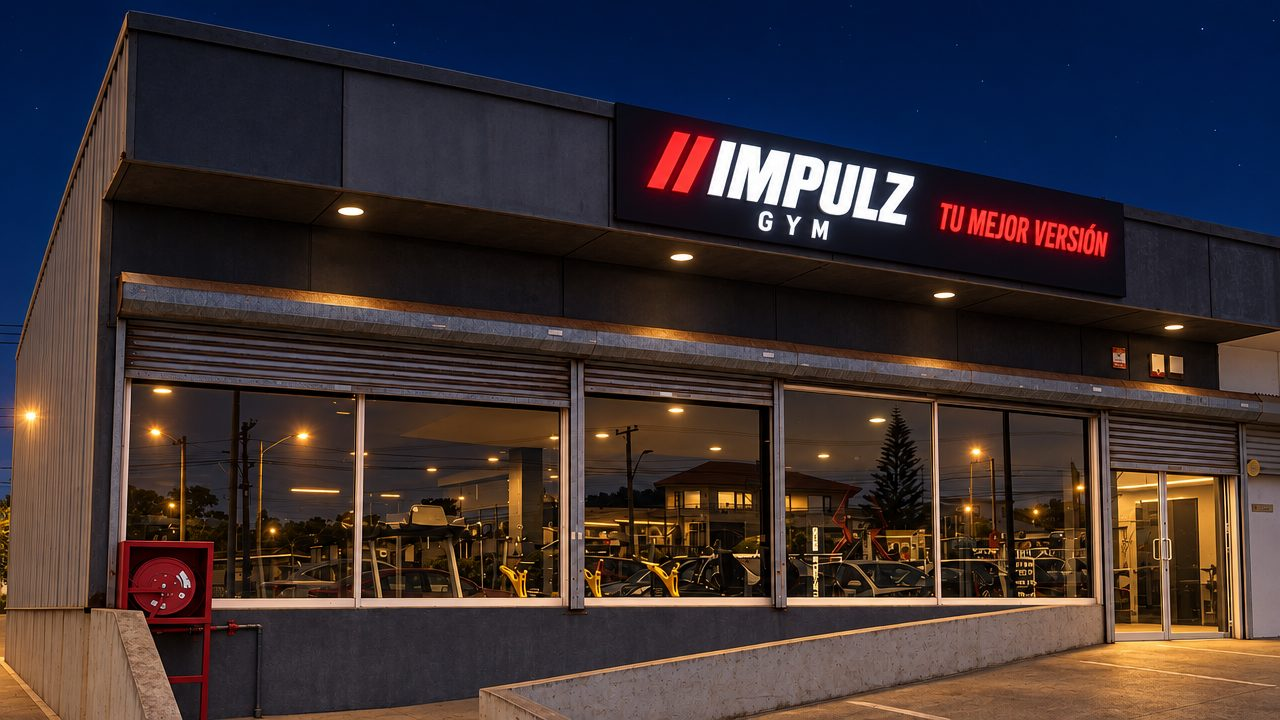
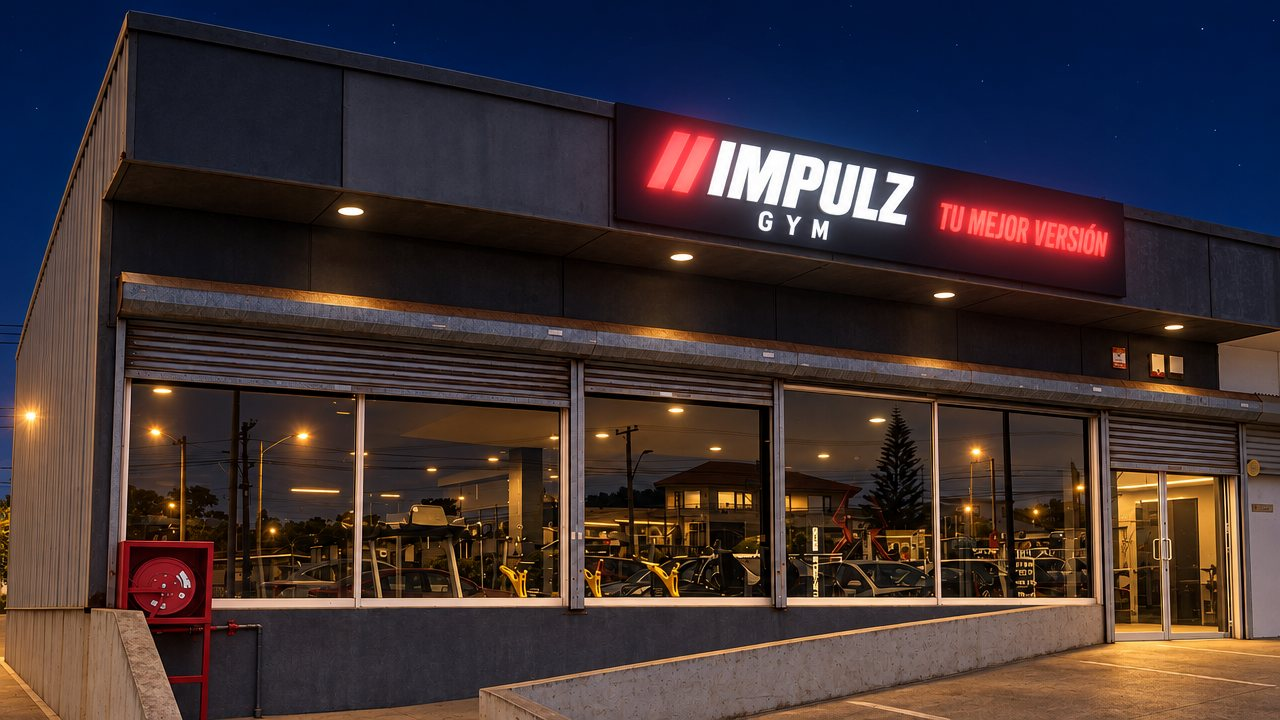
Impulz: portada viva con el letrero, costados llenos y ubicación destacada
- Portada (celular y computador): letrero de frente con cielo de día, atardecer
  o noche (encendido, con brillo de neón); estado y reloj en el cielo; mensaje
  según el momento del día; acentos de toda la web según la hora.
- Contenido más ancho, cinta en movimiento, galería en mosaico de borde a borde,
  horarios sobre foto y "IMPULZ" en contorno detrás de algunos títulos.
- Ubicación: mapa a todo el ancho con Cómo llegar y Waze; dirección en la barra
  superior.

Claude-Session: https://claude.ai/code/session_01GMYAFuU4PmfgPxmJQtduFC

Changed region(s): [[0.4688, 0.1222, 0.9062, 0.3972]]

diff --git a/impulz-gym/app/public/sitio.html b/impulz-gym/app/public/sitio.html
@@ -40,7 +40,7 @@
 html{scroll-behavior:smooth;-webkit-text-size-adjust:100%;scroll-padding-top:76px}
 @media (prefers-reduced-motion:reduce){html{scroll-behavior:auto}}
 body{margin:0;background:var(--bg);color:var(--ink);font:17px/1.6 var(--body)}
-.wrap{max-width:1120px;margin:0 auto;padding-left:max(20px,env(safe-area-inset-left,0px));padding-right:max(20px,env(safe-area-inset-right,0px))}
+.wrap{max-width:1240px;margin:0 auto;padding-left:max(20px,env(safe-area-inset-left,0px));padding-right:max(20px,env(safe-area-inset-right,0px))}
 a{color:var(--red-hi)}
 :focus-visible{outline:2px solid var(--red-hi);outline-offset:3px}
 [hidden]{display:none!important}
@@ -72,14 +72,65 @@ nav.links a:hover{color:var(--red-hi)}
 .hero{position:relative;overflow:hidden;border-bottom:1px solid var(--line);background:var(--bg)}
 /* Cielo de la portada: la foto de la fachada cambia según la luz real de El Quisco (día, atardecer, noche). */
 .cielo{position:absolute;inset:0;z-index:0}
-.cielo i{position:absolute;inset:0;background:right top/cover no-repeat;opacity:0;transition:opacity 2.5s ease}
+.cielo i{position:absolute;inset:0;background:82% top/cover no-repeat;opacity:0;transition:opacity 2.5s ease}
 .cielo .c-dia{background-image:url(/fotos/ia-fachada.jpg);opacity:1}
 .hero[data-cielo=tarde] .c-tarde,.hero[data-cielo=noche] .c-noche{opacity:1}
 .hero[data-cielo=tarde] .c-dia,.hero[data-cielo=noche] .c-dia{opacity:0}
-.cielo::after{content:"";position:absolute;inset:0;background:linear-gradient(90deg,rgba(11,9,9,.97) 0%,rgba(11,9,9,.92) 46%,rgba(11,9,9,.4) 72%,rgba(11,9,9,.2) 100%)}
-@media(prefers-reduced-motion:reduce){.cielo i{transition:none}}
-.hero::before{content:"";position:absolute;inset:0;z-index:1;background:repeating-linear-gradient(115deg,transparent 0 46px,rgba(227,23,30,.07) 46px 50px),radial-gradient(70% 90% at 88% 0%,rgba(227,23,30,.38),transparent 60%);pointer-events:none}
-.heroin{position:relative;z-index:2;display:grid;gap:26px;padding-block:56px 64px}
+.cielo::after{content:"";position:absolute;inset:0;background:linear-gradient(90deg,rgba(11,9,9,.9) 0%,rgba(11,9,9,.72) 55%,rgba(11,9,9,.45) 100%),linear-gradient(0deg,var(--bg) 0%,transparent 30%)}
+/* Computador: mismo concepto que el celular. El letrero de frente, centrado y en grande con el cielo de fondo;
+   el estado y el reloj en el cielo; el texto y los botones centrados debajo. */
+@media(min-width:900px){
+  .hero{display:flex;flex-direction:column}
+  section.hero::before{display:none}
+  .cielo{position:relative;inset:auto;height:clamp(480px,min(44vw,calc(100vh - 200px)),820px);flex:none}
+  .cielo i{background-position:50% 74%}
+  .cielo .c-dia{background-image:url(/fotos/ia-letrero-ancho.jpg)}
+  .cielo::after{background:linear-gradient(0deg,var(--bg) 0%,transparent 16%)}
+  .hero .heroin{position:static;min-height:0;margin-top:-2vw;padding-block:0 60px;gap:22px;justify-items:center;text-align:center}
+  .hero .vivo{position:absolute;left:0;right:0;justify-self:stretch;width:auto;top:clamp(48px,5vw,110px);z-index:3;display:flex;flex-direction:column;align-items:center;gap:12px}
+  .hero .reloj{flex-direction:column;align-items:center;gap:8px;background:none;border:0;padding:0;backdrop-filter:none}
+  .hero .reloj b{font-size:clamp(72px,7.6vw,132px);text-shadow:0 3px 26px rgba(0,0,0,.45)}
+  .hero .reloj span{font-size:13px;color:#fff;text-shadow:0 1px 8px rgba(0,0,0,.6)}
+  .hero .state{order:-1;font-size:15px;background:rgba(11,9,9,.72);border-color:rgba(255,255,255,.18);backdrop-filter:blur(6px)}
+  .hero .momento{justify-self:center}
+  .hero .lead{margin-inline:auto}
+  .hero .cta,.hero .trust{justify-content:center}
+  .hero .stats{justify-self:stretch;text-align:left}
+  .hero h1{position:absolute;width:1px;height:1px;overflow:hidden;clip:rect(0 0 0 0);white-space:nowrap}
+}
+/* Celular: el letrero en grande y centrado con el cielo de fondo; el estado y la hora van en el cielo, dentro de la imagen */
+@media(max-width:899px){
+  .hero{display:flex;flex-direction:column}
+  .hero::before{display:none}
+  .cielo{position:relative;inset:auto;height:clamp(440px,125vw,760px);flex:none}
+  .cielo i{background-position:50% 50%}
+  .cielo .c-dia{background-image:url(/fotos/ia-letrero.jpg)}
+  .cielo::after{background:linear-gradient(0deg,var(--bg) 0%,transparent 10%)}
+  .hero .heroin{position:static;min-height:0;margin-top:-14vw;padding-block:0 40px;gap:20px}
+  .hero .vivo{position:absolute;left:0;right:0;justify-self:stretch;width:auto;top:clamp(56px,15vw,120px);z-index:3;display:flex;flex-direction:column;align-items:center;gap:8px}
+  .hero .reloj{flex-direction:column;align-items:center;gap:6px;background:none;border:0;padding:0;backdrop-filter:none}
+  .hero .reloj b{font-size:clamp(50px,15vw,84px);text-shadow:0 2px 20px rgba(0,0,0,.45)}
+  .hero .reloj span{color:#fff;text-shadow:0 1px 8px rgba(0,0,0,.6)}
+  .hero .state{order:-1;background:rgba(11,9,9,.72);border-color:rgba(255,255,255,.18);backdrop-filter:blur(6px)}
+  .hero .momento{justify-self:center}
+  .hero h1{position:absolute;width:1px;height:1px;overflow:hidden;clip:rect(0 0 0 0);white-space:nowrap}
+}
+/* De noche el letrero "respira" como un neón encendido */
+@keyframes neon{0%,100%{filter:brightness(1) saturate(1)}50%{filter:brightness(1.1) saturate(1.15)}}
+.hero[data-cielo=noche] .c-noche{animation:neon 4.5s ease-in-out infinite}
+@media(prefers-reduced-motion:reduce){.cielo i{transition:none;animation:none!important}}
+/* Acentos de toda la web según la hora: cálidos al atardecer, con brillo de neón de noche */
+.eyebrow,.btn,.plan.top,.cinta,section.blk{transition:color .8s,box-shadow .8s,text-shadow .8s,background-color .8s}
+html[data-momento=tarde] .eyebrow{color:#ff7a45}
+html[data-momento=tarde] .cinta{background:linear-gradient(90deg,#e3171e,#f0602d)}
+html[data-momento=tarde] section.blk:not(#horarios){background-image:linear-gradient(180deg,rgba(255,122,48,.05),transparent 45%)}
+html[data-momento=noche] .eyebrow{text-shadow:0 0 14px rgba(255,74,80,.6)}
+html[data-momento=noche] .btn:not(.ghost):not(.wa):not(.waze){box-shadow:0 0 0 1px rgba(255,74,80,.45),0 0 26px rgba(227,23,30,.5)}
+html[data-momento=noche] .plan.top{box-shadow:0 0 44px rgba(227,23,30,.28)}
+html[data-momento=noche] section.blk.marca::before{-webkit-text-stroke-color:rgba(255,74,80,.12)}
+html[data-momento=noche] .cinta{box-shadow:0 0 30px rgba(227,23,30,.5)}
+.hero::before{content:"";position:absolute;inset:0;z-index:1;background:repeating-linear-gradient(115deg,transparent 0 46px,rgba(227,23,30,.05) 46px 50px);-webkit-mask-image:linear-gradient(90deg,#000 0%,#000 30%,transparent 55%);mask-image:linear-gradient(90deg,#000 0%,#000 30%,transparent 55%);pointer-events:none}
+.heroin{position:relative;z-index:2;display:grid;gap:24px;align-content:center;min-height:clamp(600px,84vh,860px);padding-block:48px 56px}
 .state{display:inline-flex;align-items:center;gap:10px;justify-self:start;border:1px solid var(--line);background:var(--panel);border-radius:999px;padding:8px 14px;font:700 14px/1 var(--display);letter-spacing:.1em;text-transform:uppercase}
 .state i{width:10px;height:10px;border-radius:50%;background:var(--muted)}
 .state.on i{background:var(--ok);box-shadow:0 0 0 4px rgba(111,220,151,.2)}
@@ -90,6 +141,8 @@ nav.links a:hover{color:var(--red-hi)}
 .reloj b{font:800 italic 21px/1 var(--display);font-variant-numeric:tabular-nums;letter-spacing:.03em}
 .reloj span{font:700 11px/1 var(--display);letter-spacing:.14em;text-transform:uppercase;color:var(--muted)}
 .hero h1{font-size:clamp(60px,13vw,150px);max-width:9ch}
+.momento{justify-self:start;display:flex;gap:10px;align-items:center;font:700 16px/1.3 var(--display);letter-spacing:.06em;text-transform:uppercase;color:var(--ink);background:rgba(227,23,30,.14);border:1px solid rgba(227,23,30,.45);border-radius:10px;padding:10px 14px;max-width:52ch}
+.momento::before{content:"";flex:none;width:8px;height:8px;border-radius:50%;background:var(--red-hi)}
 .hero .lead{font-size:clamp(19px,2.4vw,23px);max-width:46ch;color:var(--soft)}
 .cta{display:flex;gap:12px;flex-wrap:wrap}
 .trust{display:flex;flex-wrap:wrap;gap:6px 18px;font:700 14px/1.2 var(--display);letter-spacing:.12em;text-transform:uppercase;color:var(--soft)}
@@ -100,7 +153,22 @@ nav.links a:hover{color:var(--red-hi)}
 .stat b{font:italic 900 36px/1 var(--display)}
 .stat span{font-size:14px;color:var(--muted)}
 
-section.blk{padding-block:76px;border-bottom:1px solid var(--line)}
+section.blk{padding-block:76px;border-bottom:1px solid var(--line);position:relative}
+section.blk>.wrap{position:relative;z-index:1}
+/* "IMPULZ" gigante en contorno: textura para los costados en pantallas grandes */
+section.blk.marca{overflow:hidden}
+section.blk.marca::before{content:"IMPULZ";position:absolute;right:-1.5vw;top:28px;z-index:0;font:italic 900 clamp(120px,21vw,380px)/.8 var(--display);letter-spacing:-.02em;color:transparent;-webkit-text-stroke:2px rgba(246,241,239,.05);pointer-events:none;white-space:nowrap}
+section.blk.marca.izq::before{right:auto;left:-1.5vw}
+/* Cinta en movimiento bajo la portada */
+.cinta{background:var(--red);color:#fff;overflow:hidden;border-bottom:1px solid var(--line)}
+.cinta div{display:flex;width:max-content;animation:cinta 38s linear infinite}
+.cinta span{font:italic 900 22px/1 var(--display);text-transform:uppercase;letter-spacing:.06em;padding:13px 0;white-space:nowrap}
+.cinta span i{font-style:normal;opacity:.55;margin:0 22px}
+@keyframes cinta{to{transform:translateX(-50%)}}
+@media(prefers-reduced-motion:reduce){.cinta div{animation:none}}
+/* Horarios sobre foto de fondo */
+#horarios{background:linear-gradient(90deg,rgba(11,9,9,.95) 0%,rgba(11,9,9,.8) 45%,rgba(11,9,9,.55) 100%),url(/fotos/ia-cardio.jpg) center/cover}
+#horarios .hours{background:rgba(11,9,9,.72);backdrop-filter:blur(6px)}
 .head{display:grid;gap:14px;margin-bottom:34px;max-width:720px}
 .head p{font-size:19px;color:var(--muted)}
 .cards{display:grid;grid-template-columns:repeat(4,minmax(0,1fr));gap:14px}
@@ -109,6 +177,10 @@ section.blk{padding-block:76px;border-bottom:1px solid var(--line)}
 .card .ic{width:44px;height:44px}
 
 .gal{display:grid;grid-template-columns:repeat(3,minmax(0,1fr));gap:12px}
+.gal.full{grid-template-columns:repeat(3,minmax(0,1fr));grid-auto-rows:clamp(170px,19vw,330px);padding-inline:12px;margin-top:6px;position:relative;z-index:1}
+.gal.full figure:first-child{grid-column:span 2;grid-row:span 2}
+.gal.full img{height:100%;aspect-ratio:auto}
+@media(max-width:700px){.gal.full{grid-template-columns:1fr 1fr;grid-auto-rows:150px}.gal.full figure:first-child{grid-column:span 2;grid-row:span 1}}
 .gal figure{margin:0;position:relative;border-radius:14px;overflow:hidden;border:1px solid var(--line);background:var(--panel)}
 .gal img{display:block;width:100%;height:auto;aspect-ratio:16/9;object-fit:cover}
 .gal figcaption{position:absolute;left:0;right:0;bottom:0;padding:26px 12px 10px;background:linear-gradient(transparent,rgba(11,9,9,.9));font:700 14px/1.2 var(--display);letter-spacing:.08em;text-transform:uppercase}
@@ -170,6 +242,16 @@ input:focus,select:focus{border-color:var(--red)}
 .code span{font-size:15px;color:var(--ok)}
 
 .loc{display:grid;grid-template-columns:1fr 1fr;gap:14px}
+.mapa{position:relative;height:clamp(380px,46vw,520px);margin:6px 0 30px;border-block:1px solid var(--line);background:var(--panel)}
+.mapa iframe{position:absolute;inset:0;width:100%;height:100%;border:0;filter:invert(.92) hue-rotate(180deg) saturate(.6) brightness(.95)}
+.mapa .wrap{position:relative;height:100%;display:flex;align-items:center;pointer-events:none}
+.mapcard{pointer-events:auto;background:rgba(11,9,9,.92);border:1px solid var(--line);border-radius:16px;padding:22px;display:grid;gap:12px;max-width:400px;box-shadow:0 20px 50px rgba(0,0,0,.5)}
+.mapcard b{font:700 13px/1.2 var(--display);letter-spacing:.14em;text-transform:uppercase;color:var(--red-hi)}
+.mapcard .big{font:italic 800 30px/1.05 var(--display);text-transform:uppercase}
+.mapcard .cta .btn{flex:1}
+.btn.waze{background:#33ccff;color:#06283d} .btn.waze:hover{background:#5ad6ff}
+.topbar a{color:inherit;text-decoration:none} .topbar a:hover{text-decoration:underline}
+@media(max-width:700px){.mapa{height:auto;border:0;background:none}.mapa iframe{position:relative;height:300px;border-block:1px solid var(--line)}.mapa .wrap{height:auto;display:block;margin-top:-40px}.mapcard{max-width:none}}
 .loc .card b{font:700 15px/1.2 var(--display);letter-spacing:.12em;text-transform:uppercase;color:var(--muted)}
 .loc .card .big{font:italic 800 28px/1.1 var(--display);text-transform:uppercase}
 .towns{display:flex;flex-wrap:wrap;gap:8px}
@@ -207,7 +289,7 @@ footer{padding-block:36px 110px;color:var(--muted);font-size:14px}
 </style>
 </head>
 <body>
-<div class="topbar"><div class="wrap"><span id="topDir">El Quisco, litoral central</span><span>{{HORARIO_CORTO}}</span></div></div>
+<div class="topbar"><div class="wrap"><a id="topDir" href="#ubicacion">📍 <span id="topDirTxt">El Quisco, litoral central</span> · Cómo llegar</a><span>{{HORARIO_CORTO}}</span></div></div>
 <header class="nav"><div class="wrap navin">
   <a class="logo" href="#inicio"><b>//</b>Impulz<small>Gym · El Quisco</small></a>
   <nav class="links" aria-label="Secciones">
@@ -217,9 +299,10 @@ footer{padding-block:36px 110px;color:var(--muted);font-size:14px}
 </div></header>
 
 <main id="inicio">
-<section class="hero" id="portada"><div class="cielo" aria-hidden="true"><i class="c-dia"></i><i class="c-tarde" data-src="/fotos/ia-fachada-tarde.jpg"></i><i class="c-noche" data-src="/fotos/ia-fachada-noche.jpg"></i></div><div class="wrap heroin">
+<section class="hero" id="portada"><div class="cielo" aria-hidden="true"><i class="c-dia"></i><i class="c-tarde" data-src="/fotos/ia-letrero-ancho-tarde.jpg" data-cel="/fotos/ia-letrero-tarde.jpg"></i><i class="c-noche" data-src="/fotos/ia-letrero-ancho-noche.jpg" data-cel="/fotos/ia-letrero-noche.jpg"></i></div><div class="wrap heroin">
   <div class="vivo"><span class="state" id="estado" role="status"><i></i><span id="estadoTxt">{{HORARIO_CORTO}}</span></span><span class="reloj" id="reloj" hidden><b id="relojHora">--:--:--</b><span>Hora en El Quisco</span></span></div>
   <h1>Tu mejor <span class="red">versión</span></h1>
+  <p class="momento" id="momento" hidden></p>
   <p class="lead">Gimnasio en El Quisco, abierto desde las {{ABRE_DESDE}}. Entrena a tu ritmo o con un plan personalizado, y parte con una clase de prueba.</p>
   <div class="promo" id="promo" hidden></div>
   <div class="cta"><a class="btn" href="#reserva">Reservar clase de prueba</a><a class="btn ghost" href="#planes">Ver planes</a></div>
@@ -229,7 +312,9 @@ footer{padding-block:36px 110px;color:var(--muted);font-size:14px}
   </div>
 </div></section>
 
-<section class="blk" id="para-quien"><div class="wrap">
+<div class="cinta" aria-hidden="true"><div><span>Desde las {{ABRE_DESDE}}<i>//</i>Peso libre<i>//</i>Máquinas y poleas<i>//</i>Cardio con vista<i>//</i>El Quisco<i>//</i>Tu mejor versión<i>//</i></span><span>Desde las {{ABRE_DESDE}}<i>//</i>Peso libre<i>//</i>Máquinas y poleas<i>//</i>Cardio con vista<i>//</i>El Quisco<i>//</i>Tu mejor versión<i>//</i></span></div></div>
+
+<section class="blk marca" id="para-quien"><div class="wrap">
   <div class="head"><span class="eyebrow">¿Para quién es Impulz?</span><h2>Un gimnasio para gente real</h2><p>No necesitas estar en forma para partir. Necesitas un lugar que te quede cómodo.</p></div>
   <div class="cards">
     <div class="card"><img class="ph" src="/fotos/p-principiante.jpg" alt="Mujer entrenando en una máquina de remo" loading="lazy" width="960" height="540"><h3>Si partes de cero</h3><p>Nadie nace sabiendo. Ven a una clase de prueba, conoce el lugar y parte a tu ritmo.</p></div>
@@ -241,10 +326,11 @@ footer{padding-block:36px 110px;color:var(--muted);font-size:14px}
 
 <section class="blk" id="gimnasio"><div class="wrap">
   <div class="head"><span class="eyebrow">El gimnasio</span><h2>Así es Impulz por dentro</h2><p>Sala amplia, con zona de peso libre, máquinas, poleas y cardio con vista al exterior.</p></div>
-  <div class="gal"><figure><img src="/fotos/ia-sala.jpg" alt="Sala amplia en Impulz Gym El Quisco" loading="lazy" width="1280" height="720"><figcaption>Sala amplia</figcaption></figure><figure><img src="/fotos/ia-maquinas-de-fuerza.jpg" alt="Máquinas de fuerza en Impulz Gym El Quisco" loading="lazy" width="1280" height="720"><figcaption>Máquinas de fuerza</figcaption></figure><figure><img src="/fotos/ia-peso-libre.jpg" alt="Peso libre frente a los espejos en Impulz Gym El Quisco" loading="lazy" width="1280" height="720"><figcaption>Peso libre frente a los espejos</figcaption></figure><figure><img src="/fotos/ia-poleas-y-discos.jpg" alt="Poleas y discos en Impulz Gym El Quisco" loading="lazy" width="1280" height="720"><figcaption>Poleas y discos</figcaption></figure><figure><img src="/fotos/ia-mancuernas.jpg" alt="Mancuernas en Impulz Gym El Quisco" loading="lazy" width="1280" height="720"><figcaption>Mancuernas</figcaption></figure><figure><img src="/fotos/ia-cardio.jpg" alt="Cardio con vista en Impulz Gym El Quisco" loading="lazy" width="1280" height="720"><figcaption>Cardio con vista</figcaption></figure></div>
-</div></section>
+</div>
+  <div class="gal full"><figure><img src="/fotos/ia-sala.jpg" alt="Sala amplia en Impulz Gym El Quisco" loading="lazy" width="1280" height="720"><figcaption>Sala amplia</figcaption></figure><figure><img src="/fotos/ia-maquinas-de-fuerza.jpg" alt="Máquinas de fuerza en Impulz Gym El Quisco" loading="lazy" width="1280" height="720"><figcaption>Máquinas de fuerza</figcaption></figure><figure><img src="/fotos/ia-peso-libre.jpg" alt="Peso libre frente a los espejos en Impulz Gym El Quisco" loading="lazy" width="1280" height="720"><figcaption>Peso libre frente a los espejos</figcaption></figure><figure><img src="/fotos/ia-poleas-y-discos.jpg" alt="Poleas y discos en Impulz Gym El Quisco" loading="lazy" width="1280" height="720"><figcaption>Poleas y discos</figcaption></figure><figure><img src="/fotos/ia-mancuernas.jpg" alt="Mancuernas en Impulz Gym El Quisco" loading="lazy" width="1280" height="720"><figcaption>Mancuernas</figcaption></figure><figure><img src="/fotos/ia-cardio.jpg" alt="Cardio con vista en Impulz Gym El Quisco" loading="lazy" width="1280" height="720"><figcaption>Cardio con vista</figcaption></figure></div>
+</section>
 
-<section class="blk" id="planes"><div class="wrap">
+<section class="blk marca izq" id="planes"><div class="wrap">
   <div class="head"><span class="eyebrow">Planes</span><h2>Elige cómo entrenar</h2><p>Todos los planes son full acceso, sin restricciones de horario.</p></div>
   <div class="plans">
     {{PLANES_HTML}}
@@ -318,13 +404,20 @@ footer{padding-block:36px 110px;color:var(--muted);font-size:14px}
 
 <section class="blk" id="ubicacion"><div class="wrap">
   <div class="head"><span class="eyebrow">Ubicación</span><h2>En El Quisco, cerca de todo el litoral</h2></div>
-  <div class="loc">
-    <div class="card"><b>Dónde estamos</b><span class="big" id="dir">El Quisco, Región de Valparaíso</span><div class="cta"><a class="btn ghost sm" id="mapa" href="#" target="_blank" rel="noopener" hidden>Cómo llegar</a><a class="btn ghost sm" id="resenas" href="#" target="_blank" rel="noopener" hidden>Ver reseñas en Google</a></div></div>
-    <div class="card"><b>También venimos desde</b><div class="towns"><span class="town">Algarrobo</span><span class="town">El Tabo</span><span class="town">Isla Negra</span><span class="town">Punta de Tralca</span><span class="town">Las Cruces</span></div><p>Si veraneas en la zona, también puedes entrenar con nosotros.</p></div>
-  </div>
+</div>
+<div class="mapa">
+  <iframe id="mapaFrame" title="Mapa de Impulz Gym El Quisco" loading="lazy" referrerpolicy="no-referrer-when-downgrade"></iframe>
+  <div class="wrap"><div class="mapcard">
+    <b>Dónde estamos</b><span class="big" id="dir">El Quisco, Región de Valparaíso</span>
+    <div class="cta"><a class="btn" id="mapa" href="#" target="_blank" rel="noopener">Cómo llegar</a><a class="btn waze" id="waze" href="#" target="_blank" rel="noopener">Abrir en Waze</a></div>
+    <a class="btn ghost sm" id="resenas" href="#" target="_blank" rel="noopener" hidden>Ver reseñas en Google</a>
+  </div></div>
+</div>
+<div class="wrap">
+  <div class="card"><b>También venimos desde</b><div class="towns"><span class="town">Algarrobo</span><span class="town">El Tabo</span><span class="town">Isla Negra</span><span class="town">Punta de Tralca</span><span class="town">Las Cruces</span></div><p>Si veraneas en la zona, también puedes entrenar con nosotros.</p></div>
 </div></section>
 
-<section class="blk" id="preguntas"><div class="wrap">
+<section class="blk marca" id="preguntas"><div class="wrap">
   <div class="head"><span class="eyebrow">Preguntas frecuentes</span><h2>Antes de venir</h2></div>
   <details><summary>¿Necesito experiencia para partir?</summary><p>No. Puedes partir a tu ritmo. Y si quieres un plan a tu medida, puedes entrenar con un coach personalizado.</p></details>
   <details><summary>¿Cómo funciona la clase de prueba?</summary><p>Reservas en esta página, recibes un código y coordinamos el día por WhatsApp. Vienes, conoces el gimnasio y entrenas.</p></details>
@@ -354,14 +447,21 @@ const clp = n => '$' + Math.round(n).toLocaleString('es-CL');
 if (SITIO.promo) { $('promo').textContent = SITIO.promo; $('promo').hidden = false; }
 $('beneficio').textContent = SITIO.beneficio || '';
 if (SITIO.precioMatricula) $('notaPlanes').textContent = 'Matrícula: ' + clp(SITIO.precioMatricula) + '. ' + $('notaPlanes').textContent;
-if (SITIO.direccion) { $('dir').textContent = SITIO.direccion; $('topDir').textContent = SITIO.direccion; }
+if (SITIO.direccion) { $('dir').textContent = SITIO.direccion; $('topDirTxt').textContent = SITIO.direccion; }
+/* Mapa: se busca por la dirección del panel (o por el nombre del gimnasio si aún no hay dirección) */
+{
+  const q = encodeURIComponent(SITIO.direccion ? SITIO.direccion + ', El Quisco, Chile' : 'Impulz Gym El Quisco, Chile');
+  $('mapaFrame').src = 'https://maps.google.com/maps?q=' + q + '&z=16&output=embed';
+  const ir = SITIO.mapsUrl || 'https://www.google.com/maps/dir/?api=1&destination=' + q;
+  $('mapa').href = ir; $('topDir').href = ir; $('topDir').target = '_blank'; $('topDir').rel = 'noopener';
+  $('waze').href = 'https://waze.com/ul?q=' + q + '&navigate=yes';
+}
 if (SITIO.resenasUrl) { $('resenas').href = SITIO.resenasUrl; $('resenas').hidden = false; }
 if (+SITIO.pruebaGratis) {
   $('tGratis').hidden = false;
   document.querySelectorAll('a[href="#reserva"]').forEach(a => { if (/clase de prueba$/i.test(a.textContent.trim())) a.textContent = a.textContent.trim() + ' gratis'; });
   document.querySelector('#reserva .eyebrow').textContent = 'Clase de prueba gratis';
 }
-if (SITIO.mapsUrl) { $('mapa').href = SITIO.mapsUrl; $('mapa').hidden = false; }
 if (SITIO.instagram) { $('ig').href = 'https://www.instagram.com/' + SITIO.instagram; $('ig').textContent = 'Instagram @' + SITIO.instagram; }
 /* Origen de la visita: si llegó con un link de campaña (?c=…), se recuerda 30 días en este navegador.
    Así, si vuelve después escribiendo impulzgym.cl, su reserva igual queda con la campaña que la trajo. */
@@ -430,13 +530,12 @@ function tick() {
   $('relojHora').textContent = a.txt; $('reloj').hidden = false;
   if (a.fecha !== ultimaFecha) { ultimaFecha = a.fecha; pintarHoras(a); }
   // Estado: abierto, pronto cerramos, o cerrado con cuenta regresiva
-  const hoy = delDia(a, 0); let clase = 'off', txt = '';
+  const hoy = delDia(a, 0); let clase = 'off', txt = '', prox = null;
   if (hoy.h && a.min >= mins(hoy.h[0]) && a.min < mins(hoy.h[1])) {
     const quedan = mins(hoy.h[1]) - a.min;
     if (quedan <= 60) { clase = 'soon'; txt = 'Pronto cerramos · quedan ' + duracion(quedan); }
     else { clase = 'on'; txt = 'Abierto ahora · hasta las ' + hh(hoy.h[1]); }
   } else if (HOR.some(Boolean) || CIERRES.length) {
-    let prox = null;
     if (hoy.h && a.min < mins(hoy.h[0])) prox = { n: 0, h: hoy.h };
     else for (let n = 1; n <= 14 && !prox; n++) { const d = delDia(a, n); if (d.h) prox = { n, h: d.h }; }
     txt = 'Cerrado' + (hoy.nota && !hoy.h ? ' por ' + hoy.nota.toLowerCase() : '');
@@ -447,13 +546,23 @@ function tick() {
     }
   }
   if (txt && txt !== ultimoTxt) { ultimoTxt = txt; $('estadoTxt').textContent = txt; $('estado').className = 'state ' + clase; }
+  // Mensaje según el momento del día
+  let msg = '';
+  if (clase === 'on') msg = a.min < 9 * 60 ? 'Entrena antes del trabajo: abrimos desde las ' + hh(hoy.h[0]) + '.'
+    : a.min >= 17 * 60 ? 'Todavía alcanzas a entrenar hoy: cerramos a las ' + hh(hoy.h[1]) + '.'
+    : 'Hoy estamos abiertos hasta las ' + hh(hoy.h[1]) + '. Ven cuando quieras.';
+  else if (clase === 'soon') msg = 'Última hora del día. Reserva tu clase de prueba para mañana.';
+  else if (prox) msg = (prox.n === 0 ? 'Hoy abrimos a las ' : prox.n === 1 ? 'Mañana abrimos a las ' : 'Abrimos el ' + NOMBRES[(a.dia + prox.n) % 7].toLowerCase() + ' a las ') + hh(prox.h[0]) + '. Reserva ahora tu clase de prueba.';
+  if (msg && msg !== $('momento').textContent) { $('momento').textContent = msg; $('momento').hidden = false; }
   // Luz de la portada según la hora real del sol
   const c = cielo(a);
   if (c !== ultimoCielo) {
-    ultimoCielo = c;
+    ultimoCielo = c; document.documentElement.dataset.momento = c;
     const capa = document.querySelector('.cielo .c-' + c);
-    if (capa && capa.dataset.src && !capa.style.backgroundImage) {
-      const img = new Image(); img.onload = () => { capa.style.backgroundImage = 'url("' + capa.dataset.src + '")'; $('portada').dataset.cielo = c; }; img.src = capa.dataset.src;
+    // Celular: letrero en formato vertical; computador: la misma toma en horizontal.
+    const src = capa && (matchMedia('(max-width:899px)').matches && capa.dataset.cel ? capa.dataset.cel : capa.dataset.src);
+    if (src && !capa.style.backgroundImage) {
+      const img = new Image(); img.onload = () => { capa.style.backgroundImage = 'url("' + src + '")'; $('portada').dataset.cielo = c; }; img.src = src;
     } else $('portada').dataset.cielo = c;
   }
 }

diff --git a/impulz-gym/app/public/panel.html b/impulz-gym/app/public/panel.html
@@ -605,7 +605,7 @@ setInterval(()=>{ if(S.yo && !document.hidden && !$("#dlg").open && !$("#dlgCod"
 
 /* ---------- web: planes, horario, días especiales, contacto y fotos ---------- */
 const NOMBRES_DIA=["Lunes","Martes","Miércoles","Jueves","Viernes","Sábado","Domingo"];
-const FOTOS_WEB={"ia-fachada":"Fachada de día (portada)","ia-fachada-tarde":"Fachada al atardecer","ia-fachada-noche":"Fachada de noche","ia-sala":"Sala","ia-maquinas-de-fuerza":"Máquinas de fuerza","ia-peso-libre":"Peso libre","ia-poleas-y-discos":"Poleas y discos","ia-mancuernas":"Mancuernas","ia-cardio":"Cardio","p-principiante":"Si partes de cero","p-madrugador":"Horario difícil","p-coach-sesion":"Coach en sesión","p-coach-plan":"Coach con plan","p-pareja":"Pareja","p-verano":"Verano"};
+const FOTOS_WEB={"ia-fachada":"Fachada de día (portada)","ia-fachada-tarde":"Fachada al atardecer","ia-fachada-noche":"Fachada de noche","ia-letrero":"Letrero de día (celular)","ia-letrero-tarde":"Letrero al atardecer (celular)","ia-letrero-noche":"Letrero de noche (celular)","ia-letrero-ancho":"Letrero de día (computador)","ia-letrero-ancho-tarde":"Letrero al atardecer (computador)","ia-letrero-ancho-noche":"Letrero de noche (computador)","ia-sala":"Sala","ia-maquinas-de-fuerza":"Máquinas de fuerza","ia-peso-libre":"Peso libre","ia-poleas-y-discos":"Poleas y discos","ia-mancuernas":"Mancuernas","ia-cardio":"Cardio","p-principiante":"Si partes de cero","p-madrugador":"Horario difícil","p-coach-sesion":"Coach en sesión","p-coach-plan":"Coach con plan","p-pareja":"Pareja","p-verano":"Verano"};
 const W={sucio:false,planes:[],horario:[],cierres:[]};
 const WCAMPOS=["whatsapp","instagram","direccion","mapsUrl","resenasUrl","promo","precioMatricula","pruebaGratis"];
 function rWeb(forzar){

diff --git a/impulz-gym/app/lib/web.js b/impulz-gym/app/lib/web.js
@@ -9,7 +9,7 @@ const DIAS_CORTOS = ['Lun', 'Mar', 'Mié', 'Jue', 'Vie', 'Sáb', 'Dom'];
 const DIAS_SCHEMA = ['Monday', 'Tuesday', 'Wednesday', 'Thursday', 'Friday', 'Saturday', 'Sunday'];
 
 // Fotos que se pueden usar en las tarjetas de planes (y reemplazar desde el panel).
-const FOTOS = ['ia-fachada', 'ia-fachada-tarde', 'ia-fachada-noche', 'ia-sala', 'ia-maquinas-de-fuerza', 'ia-peso-libre', 'ia-poleas-y-discos', 'ia-mancuernas', 'ia-cardio',
+const FOTOS = ['ia-fachada', 'ia-fachada-tarde', 'ia-fachada-noche', 'ia-letrero', 'ia-letrero-tarde', 'ia-letrero-noche', 'ia-letrero-ancho', 'ia-letrero-ancho-tarde', 'ia-letrero-ancho-noche', 'ia-sala', 'ia-maquinas-de-fuerza', 'ia-peso-libre', 'ia-poleas-y-discos', 'ia-mancuernas', 'ia-cardio',
   'p-principiante', 'p-madrugador', 'p-coach-sesion', 'p-coach-plan', 'p-pareja', 'p-verano'];
 
 const PLANES_INICIALES = [
